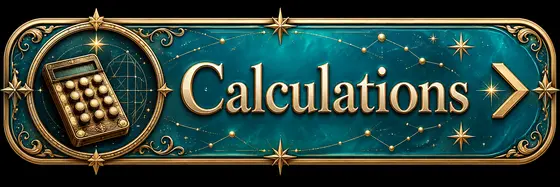
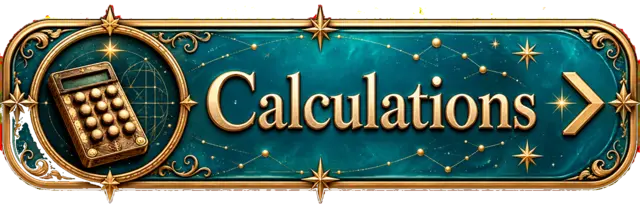
Fix resource plaque transparency and scale

diff --git a/src/RosieResources.css b/src/RosieResources.css
@@ -142,6 +142,12 @@
   aspect-ratio: auto;
   object-fit: contain;
 }
+
+/* The three new transparent plaques are held just inside the legacy artwork's
+   visual footprint so the six-item stack reads as one matched set. */
+.rr-hub-button--qr-atelier img,
+.rr-hub-button--calculations img,
+.rr-hub-button--reviews img { transform: scale(.93); }
 @media (max-width: 390px) and (max-height: 730px) {
   .rr-hub-buttons { gap: 8px; }
 }
